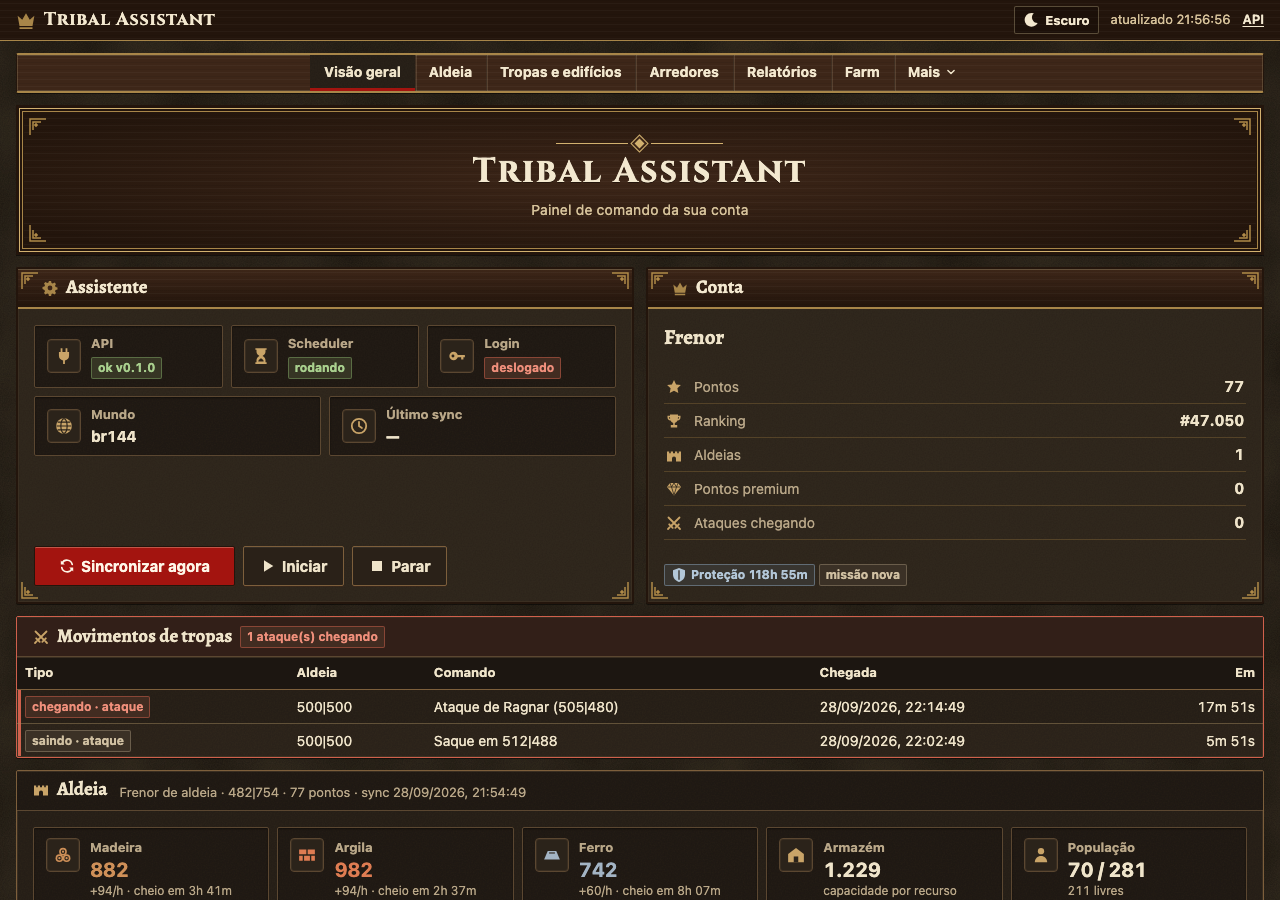
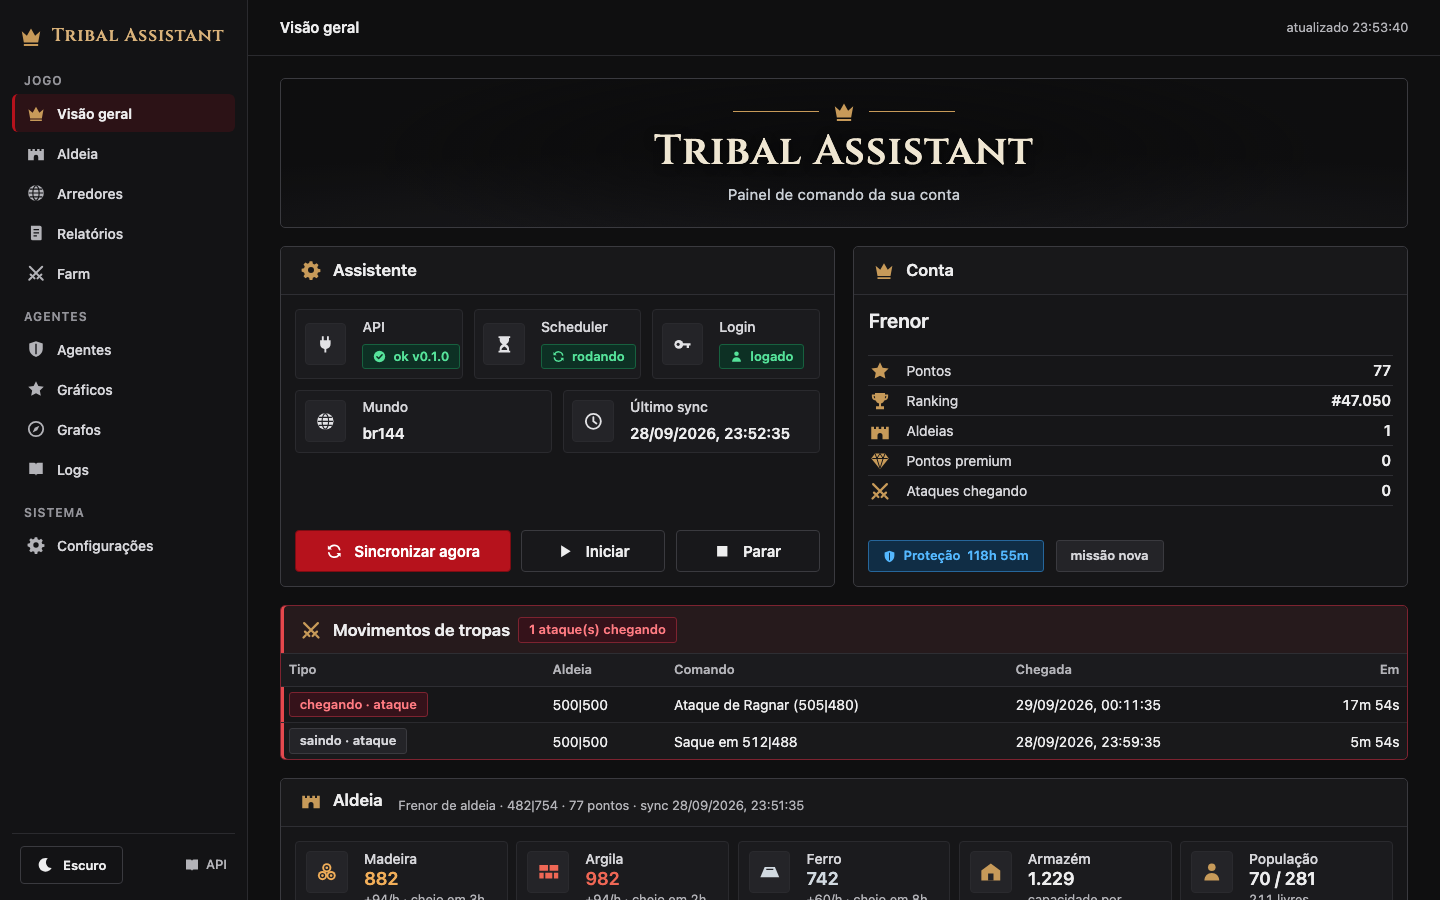
docs: update README and screenshots

diff --git a/README.md b/README.md
@@ -13,6 +13,14 @@ Use it three ways: as a **CLI** (`tribal-assistant`), as a **Python library** (`
 |-------|------|
 | ![Tribal Assistant dashboard, light theme](docs/screenshots/dashboard-light.png) | ![Tribal Assistant dashboard, dark theme](docs/screenshots/dashboard-dark.png) |
 
+| Agents | Settings |
+|--------|----------|
+| ![Agents page](docs/screenshots/agents.png) | ![Settings page](docs/screenshots/settings.png) |
+
+| Decision graph | Charts |
+|----------------|--------|
+| ![Decision graph](docs/screenshots/graph.png) | ![Charts](docs/screenshots/charts.png) |
+
 ## Features
 
 - **Account sync** — player, points, ranking, villages, resources and production, storage, population, troops, recruitment queue, buildings, incoming and outgoing commands, battle reports.
@@ -22,7 +30,7 @@ Use it three ways: as a **CLI** (`tribal-assistant`), as a **Python library** (`
 - **Scavenging** — shows each scavenge option, its return time and unlock state.
 - **Incoming attack alerts** — highlights attacks and nobles heading to your villages.
 - **Scheduler** — APScheduler jobs with jitter and configurable quiet hours.
-- **Dashboard** — responsive web UI, keyboard accessible, light/dark theme, component docs at `/design`.
+- **Dashboard** — responsive web UI, keyboard accessible, light theme and graphite dark theme, component docs at `/componentes`.
 - **REST API** — FastAPI with OpenAPI docs at `/docs`.
 
 ## Install
@@ -55,6 +63,8 @@ Settings come from environment variables or `.env`:
 | `HEADLESS` | `false` | Run Chromium without a window |
 | `SYNC_INTERVAL_SECONDS` | `120` | Account sync interval |
 | `QUIET_HOURS` | empty | Pause syncing, e.g. `23:30-07:00` |
+| `AI_PROVIDER` / `AI_MODEL` / `AI_API_KEY` / `AI_BASE_URL` | `none` | AI provider for the agents |
+| `AI_MAX_TOKENS` | `2048` | Max tokens per AI answer |
 | `FARM_ENABLED` | `true` | Enable farm ticks |
 
 See [.env.example](.env.example) for the full list.
@@ -107,40 +117,122 @@ asyncio.run(main())
 
 The FastAPI app is `tribal_assistant.server:app`; build your own with `tribal_assistant.server.create_app()`.
 
+## Village agents
+
+Every round, five specialists run on each of your villages, in this order:
+
+| Agent | Area | Tools |
+|-------|------|-------|
+| Quartermaster | Quests | collect rewards, hand in finished quests |
+| Strategist | Village goal | read state and quests, set the goal the others follow |
+| Economist | Headquarters, resources, farm, storage, hiding place, market | queue upgrades |
+| Commander | Barracks, stable, workshop, smithy, wall, statue, academy | queue upgrades, recruit |
+| Raider | Rally point | loot nearby barbarian villages |
+
+New villages are picked up automatically after the next sync.
+
+**AI plans, rules execute.** Only the Strategist calls the model: it writes a **village plan** (up to 12 ordered steps — build X to level N, recruit, unlock scavenging) with `set_village_plan`. The other agents execute the plan with rules, at zero token cost. The plan is rewritten only when it is missing, older than `plan_refresh_hours`, finished or stuck, so the model runs a few times a day instead of five times per round. Without an AI key the same plan comes from a built-in rule planner (quests, advisor, balanced production, path to the first nobleman).
+
+Plan progress is measured from the real village state every round (pending, queued, done, blocked) and shown on `/agentes`. Builds in the plan may take any free queue slot, so a Smithy step is no longer starved by economy builds; when storage is almost full, the Economist and Commander spend the surplus on buildings and troops.
+
+Token savings: role-sliced compact text context instead of full JSON, no duplicate state reads, short answers (`AI_MAX_TOKENS`, default 2048), a cap on tool loops (`llm_max_steps`), and `llm_agents` to choose which agents may call the model (default: only the Strategist).
+
+Every action passes the same **guardrails**, enforced in code.
+
+The guardrails and the schedule are **runtime settings** stored in the database, not `.env`. Change them from the **Configurações** page (`/configuracoes`), the API (`PATCH /api/v1/agents/settings`), the CLI (`tribal-assistant agents set …`) or MCP (`update_agent_settings`). A running server picks up changes within a minute, with no restart.
+
+| Setting | Default | Meaning |
+|---------|---------|---------|
+| `enabled` | `false` | run on a schedule inside `tribal-assistant serve` |
+| `interval_minutes` | `10` | minutes between scheduled rounds |
+| `dry_run` | `false` | simulate and log without touching the game |
+| `resource_reserve` | `0.1` | share of storage recruiting never spends |
+| `recruit_budget` | `0.5` | share of spare resources recruiting may use per round |
+| `max_attacks_per_hour` | `12` | attacks per village per hour |
+| `attack_radius` | `12` | max distance to a barbarian target (players are never targeted) |
+| `retarget_minutes` | `30` | wait before hitting the same village again |
+| `build_queue_slots` | `2` | build orders agents may keep queued |
+| `auto_finish_free` | `true` | click the free "finish now" button on short builds (never paid ones) |
+| `llm_agents` | `["strategist"]` | agents allowed to call the AI |
+| `plan_refresh_hours` | `6` | hours before the plan is rewritten with AI |
+| `llm_max_steps` | `6` | tool rounds per AI conversation |
+
+Every decision, including refusals, is stored with its reason and shown in the dashboard.
+
+```bash
+tribal-assistant agents run --dry-run                   # simulate a round
+tribal-assistant agents run --live                      # act in the game
+tribal-assistant agents log                             # what they did and why
+tribal-assistant agents config                          # brain + current settings
+tribal-assistant agents set enabled=true interval_minutes=15
+tribal-assistant quests                                 # quests and pending rewards
+```
+
+## AI providers
+
+| `AI_PROVIDER` | Key variable | Default model | Endpoint |
+|---------------|--------------|---------------|----------|
+| `anthropic` | `ANTHROPIC_API_KEY` | `claude-opus-5` | Anthropic SDK |
+| `openai` | `OPENAI_API_KEY` | `gpt-5` | OpenAI SDK |
+| `grok` | `XAI_API_KEY` | `grok-4.20-0309-non-reasoning` | `https://api.x.ai/v1` |
+| `gemini` | `GEMINI_API_KEY` | `gemini-2.5-pro` | Gemini OpenAI-compatible endpoint |
+| `ollama` | none | `llama3.1` | `http://localhost:11434/v1` |
+| `openai-compatible` | `OPENAI_API_KEY` | set `AI_MODEL` | set `AI_BASE_URL` |
+
+`AI_API_KEY`, `AI_MODEL` and `AI_BASE_URL` override the defaults. New providers implement the `LLM` and `Conversation` abstract classes in `tribal_assistant/ai/abc/llm.py`.
+
+## MCP server
+
+```bash
+pip install "tribal-assistant[mcp]"
+tribal-assistant mcp            # stdio, for Claude Code / Claude Desktop / Codex
+tribal-assistant mcp --http     # streamable HTTP on 127.0.0.1:8765
+```
+
+The repository ships a `.mcp.json`, so Claude Code picks the server up when opened in this folder. It exposes 21 tools and 4 prompts (`grow_village`, `farm_round`, `first_noble_plan`, `agent_round`):
+
+- **read-only:** `get_overview`, `get_quests`, `get_plans`, `get_agent_decisions`, `get_agents_config`, `lookup_knowledge`, `get_world_status`, `list_nearby`, `list_farm_targets`
+- **game actions:** `upgrade_building`, `recruit_units`, `send_farm_attack`, `claim_quest_rewards`, `complete_quest` and `run_agents`. They pass the guardrails and default to `dry_run=true`.
+- **other:** `sync_account`, `sync_world`, `add_farm_target`, `remove_farm_target`, `set_village_goal`, `update_agent_settings`
+
 ## Web dashboard and API
 
 ```bash
 tribal-assistant serve
 ```
 
-- Dashboard: <http://localhost:8000/>
-- Component docs: <http://localhost:8000/design>
-- OpenAPI docs: <http://localhost:8000/docs>
+Each topic is its own page, reached from the sidebar (a drawer on phones):
 
-| Method | Route | Purpose |
-|--------|-------|---------|
-| GET | `/health` | Health check |
-| GET | `/api/v1/assistant/status` | Scheduler and login state |
-| POST | `/api/v1/assistant/start` · `/stop` · `/sync` | Control the assistant |
-| GET | `/api/v1/game/overview` | Player, villages, troops, commands, reports, recommendations |
-| GET | `/api/v1/world/status` | Stored world data |
-| GET | `/api/v1/world/nearby` | Nearby barbarian or player villages |
-| GET · POST | `/api/v1/farm/targets` | List or add farm targets |
-| POST | `/api/v1/farm/tick` | Run one farm round |
-| GET · POST · PATCH | `/api/v1/villages` | Village records |
+| Page | What it shows |
+|------|---------------|
+| `/` Visão geral | assistant status, account, village resources, what to upgrade, scavenging, quests, troop movements |
+| `/aldeia` | troops and buildings |
+| `/arredores` | nearby villages, add farm targets |
+| `/relatorios` | battle reports with loot |
+| `/farm` | farm targets |
+| `/agentes` | live status of the agents, village plan, rounds, the full reasoning of each round, live feed |
+| `/graficos` | agent metrics (actions per hour, refusals, tokens) and village evolution |
+| `/grafos` | decision graph: agents → tools → results |
+| `/logs` | application logs with live tail |
+| `/configuracoes` | runtime settings, AI status (provider, model, key present, never the key) and system info |
+
+Everything shown there is stored in the database: rounds (`agent_runs`), every reasoning step and tool call (`agent_steps`), decisions (`agent_decisions`), village snapshots at every sync (`village_snapshots`) and application logs (`app_logs`). Live updates arrive over Server-Sent Events at `/api/v1/events`. OpenAPI docs are at `/docs`.
 
 ## Architecture
 
 ```
 tribal_assistant/
 ├── cli.py            Typer CLI
+├── agents/           village agents: roles, brains, tools, toolbox, guardrails, knowledge
+├── ai/               provider-neutral LLM layer (abstract classes + providers)
+├── mcp/              MCP server, tool groups, prompts
 ├── server.py         FastAPI factory, lifespan, dashboard routes
 ├── api/              HTTP routers (v1)
 ├── services/         domain logic: game, world, farm, advisor, assistant
 ├── repositories/     SQLAlchemy async data access
 ├── models/           ORM models
 ├── schemas/          Pydantic input/output
-├── client/           Playwright session, login, scrapers, sync modules
+├── client/           Playwright session, login, game actions, scrapers, sync
 ├── scheduler/        APScheduler runtime and jobs
 ├── db/               engine, session factory, init_db
 └── web/              dashboard (HTML, CSS design system, icons)
